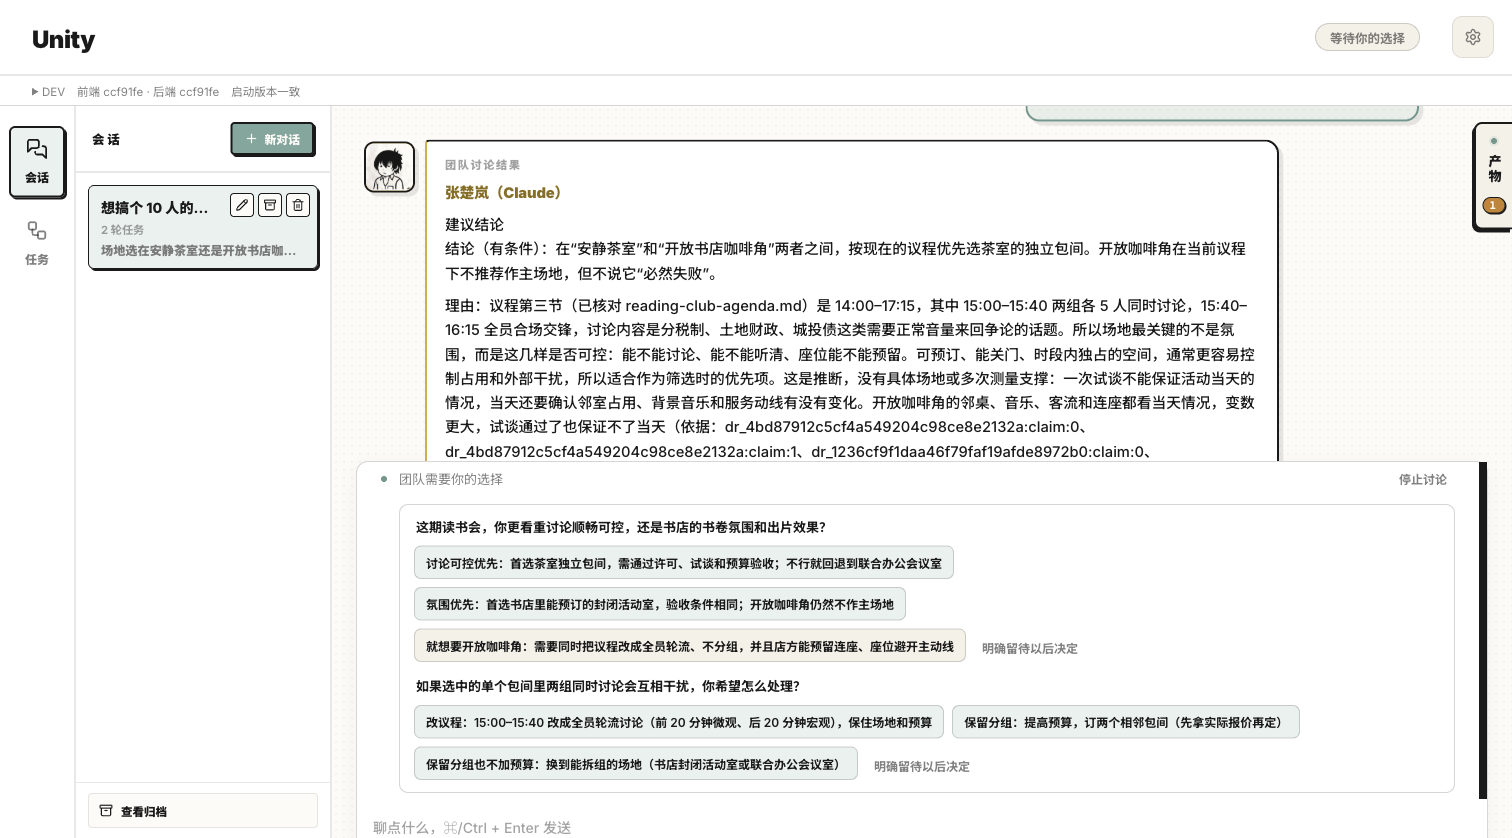
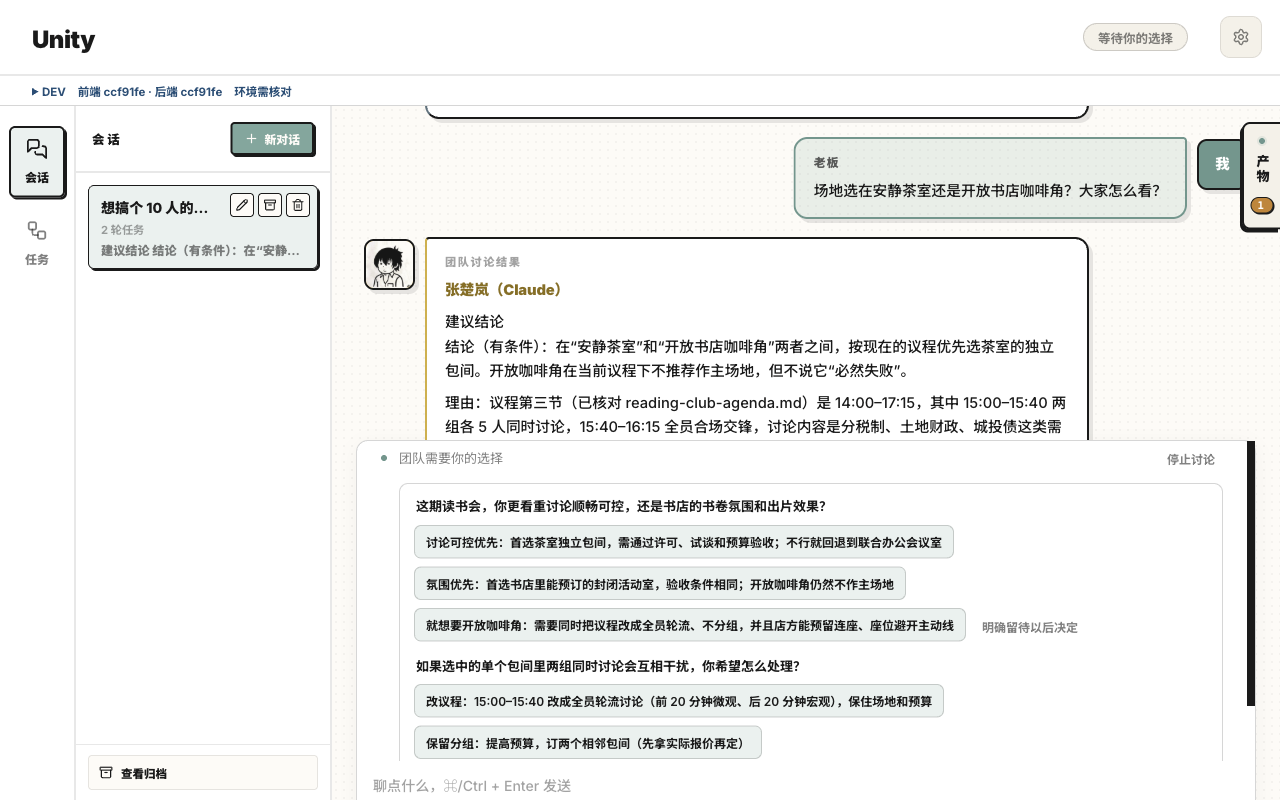
docs(product): 收入按 1280×800 重拍的 1-2 讨论综合稿截图

diff --git a/docs/product/images/MANIFEST.md b/docs/product/images/MANIFEST.md
@@ -8,7 +8,7 @@
 | 0-1 | `0-1-conversation-overview.png` | 会话页：消息流、产物卡片 | ccf91fe | 1280×800 | 9f0f0fdb3646 | 可用 |
 | 0-2 | `0-2-settings-extensions.png` | 设置 → 扩展 | ccf91fe | 1126×680 | 621f92eebf0f | 可用 |
 | 1-1 | `1-1-settings-team-config.png` | 设置 → 团队配置 | ccf91fe | 1126×680 | 235ba4f5b6f0 | 可用 |
-| 1-2 | `1-2-discuss-summary.png` | 会话页：讨论综合稿、待选择面板 | ccf91fe | 1512×838 | c56669df856b | 尺寸不符，按 1280×800 重拍 |
+| 1-2 | `1-2-discuss-summary.png` | 会话页：讨论综合稿、待选择面板 | ccf91fe | 1280×800 | cce9d2544300 | 可用 |
 | 1-3a | `1-3a-task-proposal-top.png` | 会话页：任务提议弹窗顶部 | ccf91fe | 1280×800 | 47f78323c065 | 可用 |
 | 1-3b | `1-3b-task-proposal-bottom.png` | 会话页：任务提议弹窗底部 | ccf91fe | 1280×800 | 1746b93da0e9 | 可用 |
 | 1-4 | — | 会话页：超时宿主记录 | — | — | — | 暂缺，等真实超时再补 |
